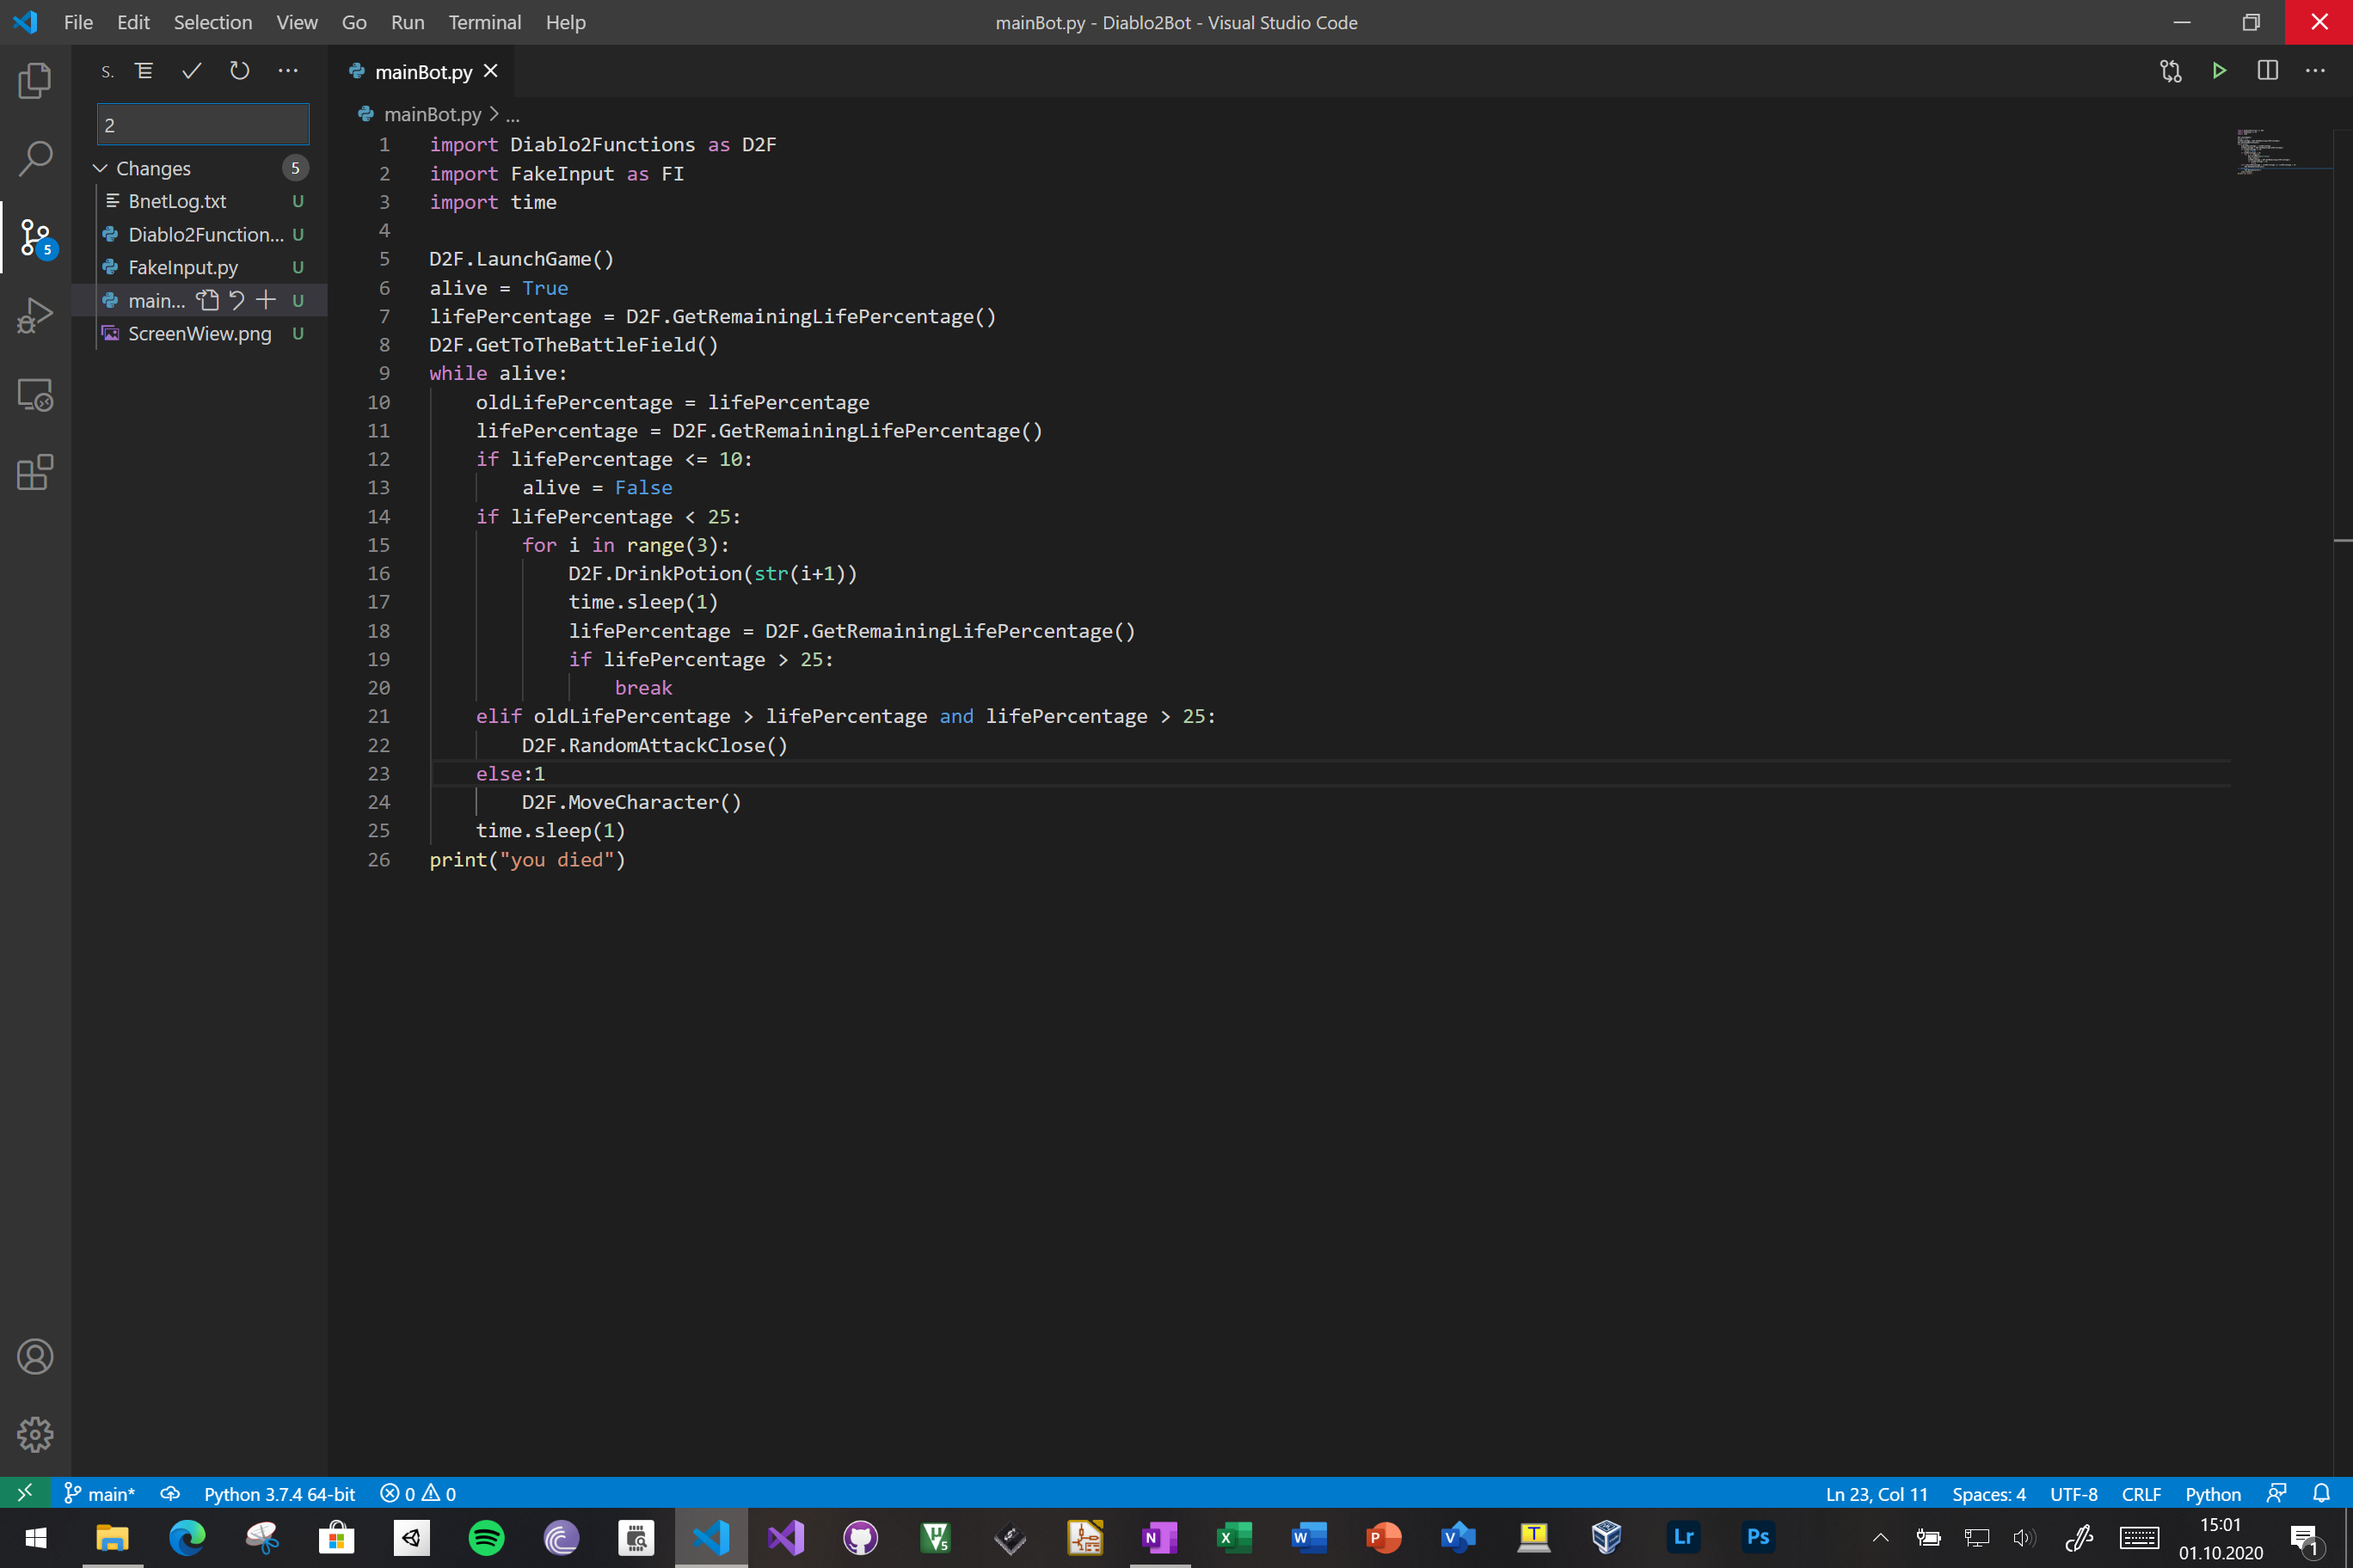
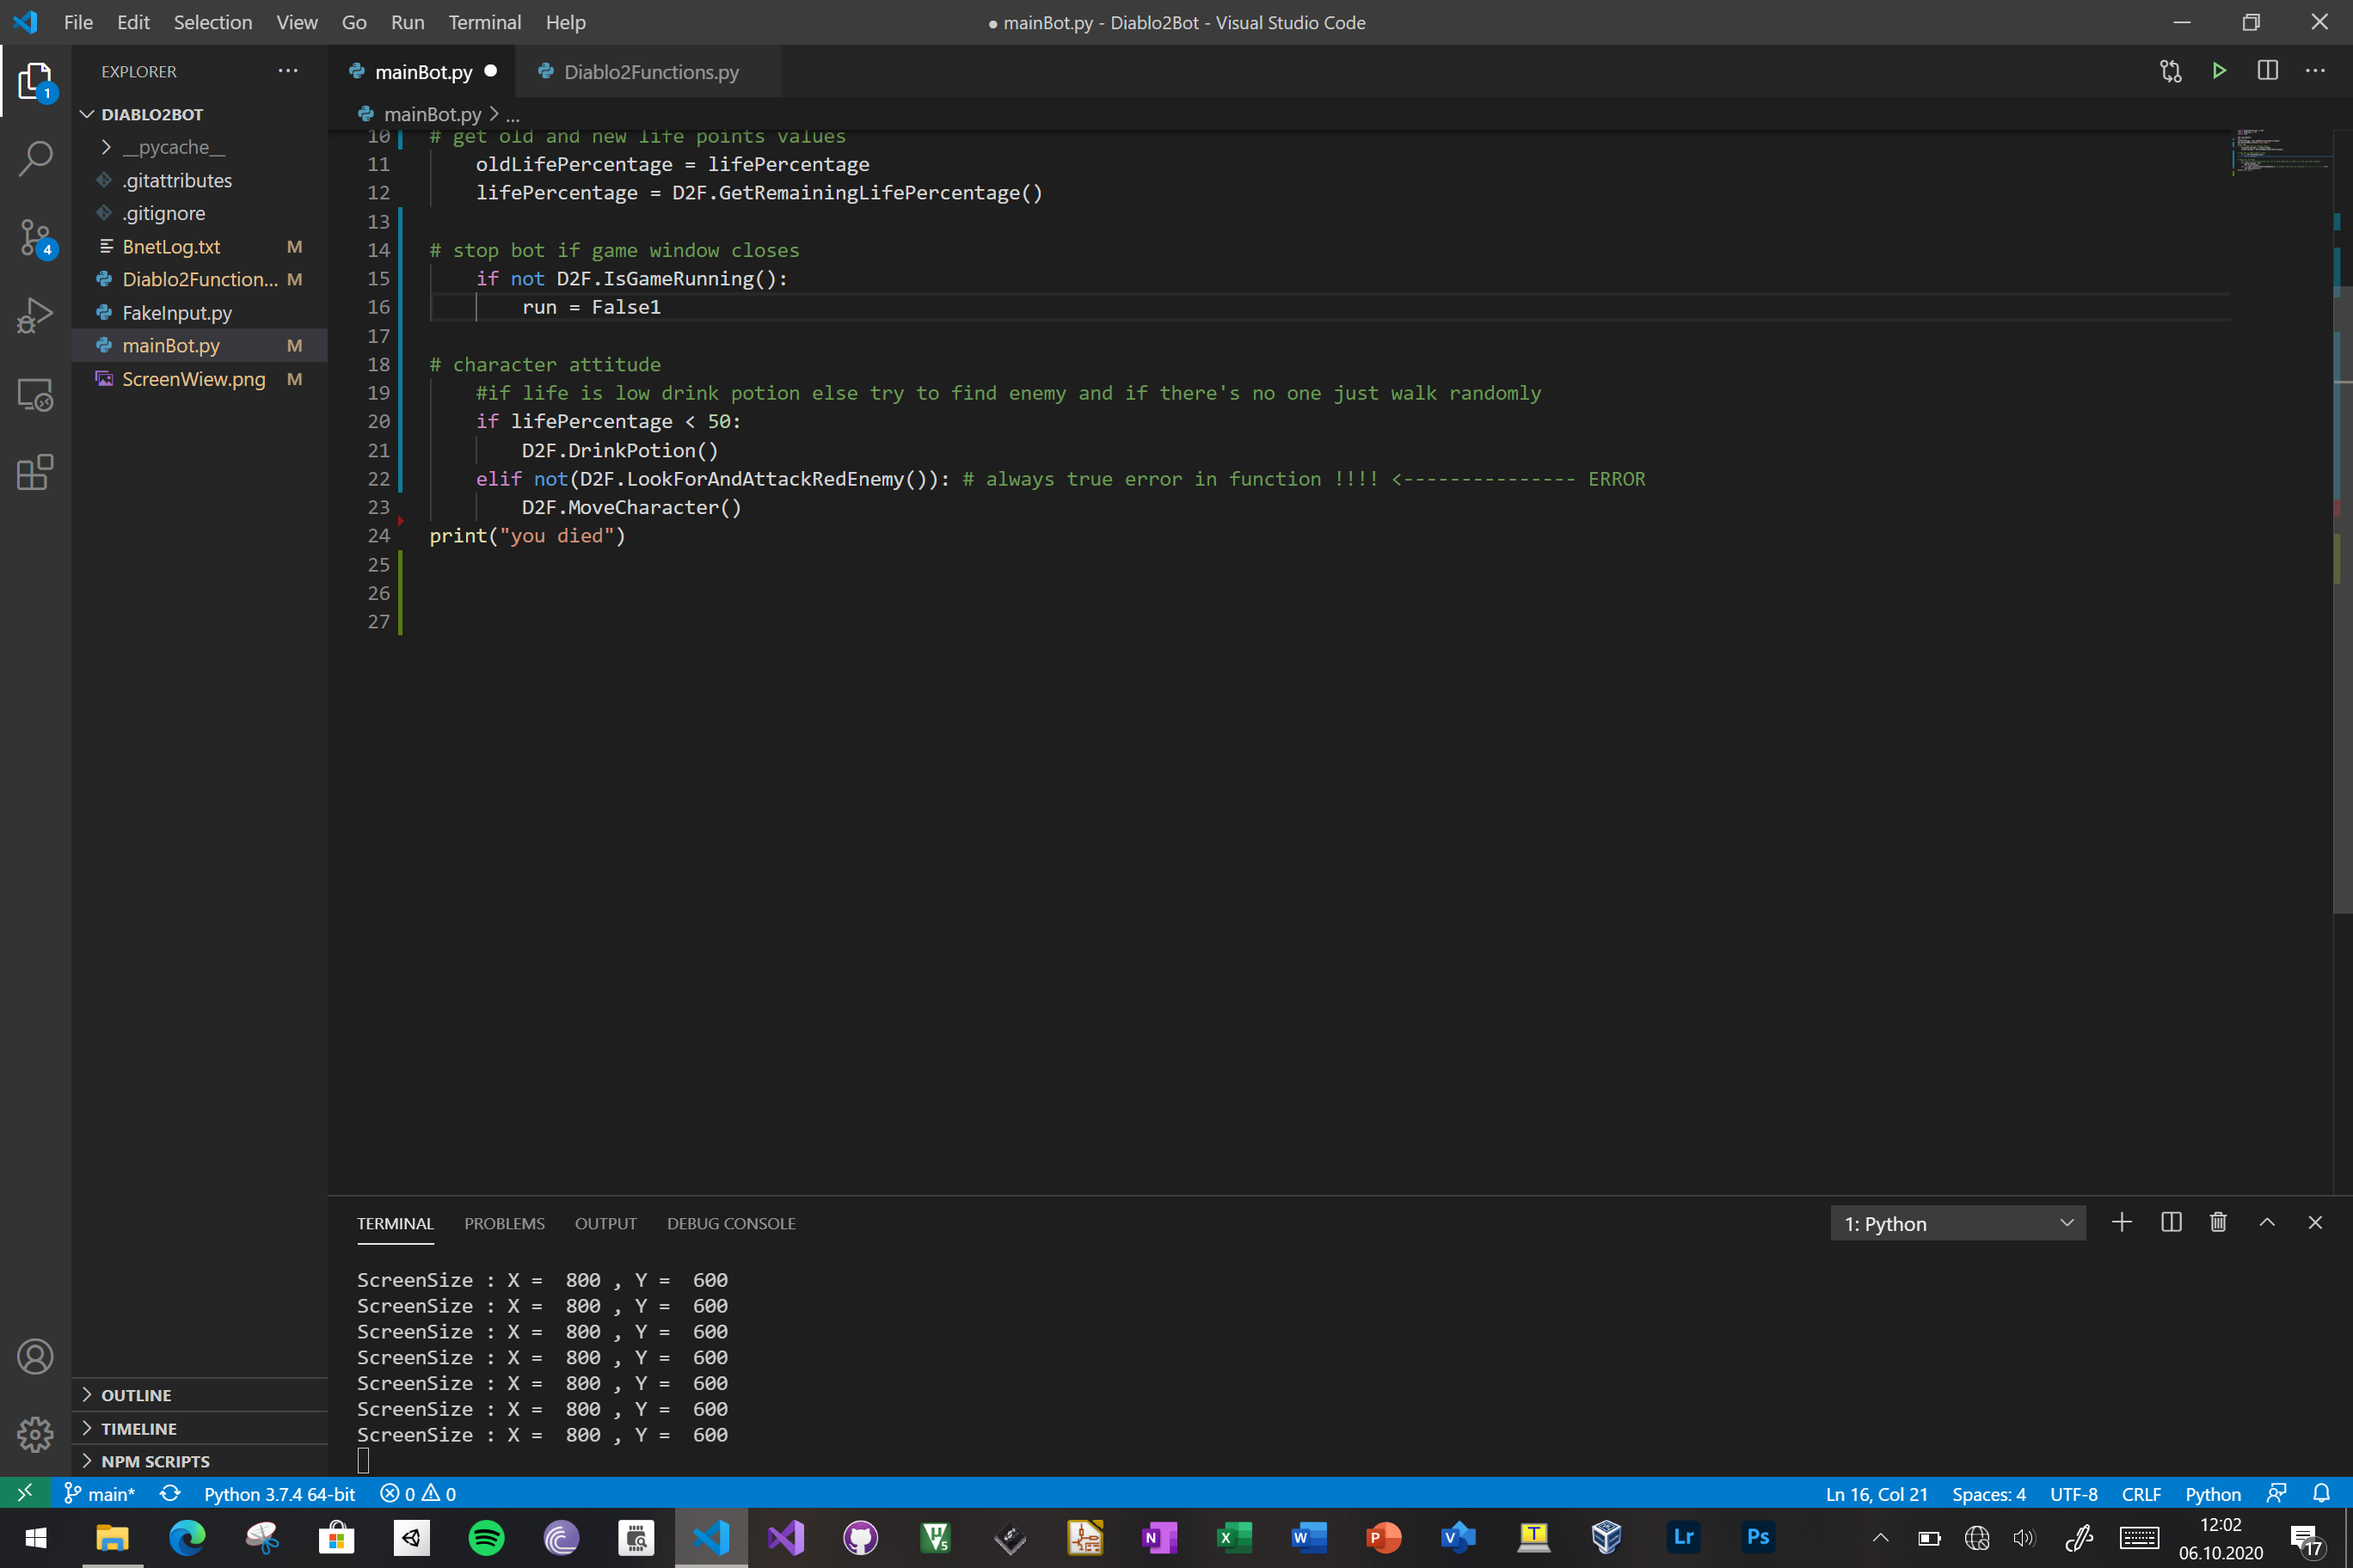
changed the dircetory placement (the main directory must be placed now in the game folder), working on "LookForAndAttackRedEnemy" because it always return true

diff --git a/Diablo2Functions.py b/Diablo2Functions.py
@@ -10,7 +10,7 @@ import random
 
 def LaunchGame():
     dirname = os.path.dirname(__file__)
-    filename = os.path.join(dirname, '../Game/DiabloII.exe')
+    filename = os.path.join(dirname, '../DiabloII.exe')
     os.system(filename)
     time.sleep(5)
     FI.KeyboardInput('enter')
@@ -28,7 +28,7 @@ def GetRemainingLifePercentage():
     remainingLifePercentage = 10
     mainPlayerLifePositionX = 70
     mainPlayerLifePositionY = 510
-    lifeRangeY = 578 - 510
+    lifeRangeY = 550 - 510
     screenView = Image.open(FI.GetScreenImage())
     pixels = screenView.load()
     for i in range(lifeRangeY):
@@ -49,7 +49,7 @@ def GetRemainingManaPercentage():
     remainingManaPercentage = 10
     mainPlayerManaPositionX = 730
     mainPlayerManaPositionY = 510
-    ManaRangeY = 578 - 510
+    ManaRangeY = 550 - 510
     screenView = Image.open(FI.GetScreenImage())
     pixels = screenView.load()
     for i in range(ManaRangeY):
@@ -68,61 +68,106 @@ def GetRemainingManaPercentage():
 
 def MoveCharacter(randomChoice = True,direction = ""):
     if randomChoice:
-        choice = random.randrange(1,4)
-        if choice == 2:
+        choice = random.randrange(0,100)
+
+        if choice <= 25:
             direction = "up"
-        if choice == 1:
+        elif choice <= 50:
             direction = "down"
-        if choice == 4:
+        elif choice <= 75:
             direction = "right"
-        if choice == 3:
+        elif choice <= 100:
             direction = "left"
     screenSize = FI.GetScreenSize()
     if direction == "up":
         FI.ClickXY(screenSize[0]//2,screenSize[1]//10,0)
+        time.sleep(1)
     if direction == "down":
         FI.ClickXY(screenSize[0]//2,screenSize[1]//10*9,0)
+        time.sleep(1)
     if direction == "left":
         FI.ClickXY(screenSize[0]//10,screenSize[1]//2,0)
+        time.sleep(1)
     if direction == "right":
         FI.ClickXY(screenSize[0]//10*9,screenSize[1]//2,0)
+        time.sleep(1)
 
 def RandomAttackClose():
     screenSize = FI.GetScreenSize()
     screenCenter = [screenSize[0]//2,screenSize[1]//2]
-    rangeTryAttackX = screenSize[0]//6
-    rangeTryAttackY = screenSize[1]//3
-    startingPointX = screenCenter[0]-(rangeTryAttackX//2)
-    startingPointY = screenCenter[1]-(rangeTryAttackY//2)
+    attackRange = screenSize[1]//10
+    FI.ClickXY(screenCenter[0]-attackRange,screenCenter[1]-attackRange,0)
+    time.sleep(0.25)
+    FI.ClickXY(screenCenter[0]+attackRange,screenCenter[1]-attackRange,0)
+    time.sleep(0.25)
+    FI.ClickXY(screenCenter[0]-attackRange,screenCenter[1]+attackRange,0)
+    time.sleep(0.25)
+    FI.ClickXY(screenCenter[0]+attackRange,screenCenter[1]+attackRange,0)
+    time.sleep(0.25)
 
-    for i in range(rangeTryAttackX//5):
-        for j in range(rangeTryAttackY//5):
-            FI.ClickXY(startingPointX+i*5,startingPointY+j*5,0)
-
-def DrinkPotion(option):
-    FI.KeyboardInput(option)
+def DrinkPotion():
+    for i in range(4):
+            if not(IsGameRunning()):
+                break
+            FI.KeyboardInput(str(i+1))
+            lifePercentage = GetRemainingLifePercentage()
+            if lifePercentage > 25:
+                break
     
-def GetToTheBattleField():
-    MoveCharacter(False,"down")
-    time.sleep(1)
-    MoveCharacter(False,"left")
-    time.sleep(1)
-    MoveCharacter(False,"down")
-    time.sleep(1)
-    MoveCharacter(False,"left")
-    time.sleep(1)
-    MoveCharacter(False,"down")
-    time.sleep(1)
-    MoveCharacter(False,"left")
-    time.sleep(1)
-    MoveCharacter(False,"down")
-    time.sleep(1)
-    MoveCharacter(False,"left")
-    time.sleep(1)
-    MoveCharacter(False,"down")
-    time.sleep(1)
-    MoveCharacter(False,"left")
-    time.sleep(1)
+def GetToTheBattleField(track):
+    if track == "down_left":
+        MoveCharacter(False,"down")
+        MoveCharacter(False,"left")
+        MoveCharacter(False,"down")
+        MoveCharacter(False,"left")
+        MoveCharacter(False,"down")
+        MoveCharacter(False,"left")
+        MoveCharacter(False,"left")
+        MoveCharacter(False,"down")
+        MoveCharacter(False,"left")
+    if track == "down_right":
+        MoveCharacter(False,"down")
+        MoveCharacter(False,"right")
+        MoveCharacter(False,"down")
+        MoveCharacter(False,"right")
+        MoveCharacter(False,"down")
+        MoveCharacter(False,"down")
+        MoveCharacter(False,"right")
+        MoveCharacter(False,"right")
+        MoveCharacter(False,"right")
+        MoveCharacter(False,"down")
+        MoveCharacter(False,"right")
+        MoveCharacter(False,"down")
+        MoveCharacter(False,"down")
 
-    
+def IsGameRunning():
+    screenView = Image.open(FI.GetScreenImage())
+    pixels = screenView.load()
+    pixelColor = pixels[6,567]
+    if pixelColor[0] == 74 and pixelColor[1] == 74 and pixelColor[2] == 74:
+        return True
+    else:
+        return False
+
+def LookForAndAttackRedEnemy():
+    enemyFound = False
+    enemyPosition = [0,0]
+    screenView = Image.open(FI.GetScreenImage())
+    screenSize = FI.GetScreenSize()
+    rangeHitAroundPlayer = 100
+    pixels = screenView.load()
+
+    rangeHitAroundPlayerStartingX = (screenSize[0]//2) - rangeHitAroundPlayer
+    rangeHitAroundPlayerStartingY = (screenSize[1]//2) - rangeHitAroundPlayer
+
+    for x in range(rangeHitAroundPlayer*2):
+        for y in range(rangeHitAroundPlayer*2):
+            pixel = pixels[rangeHitAroundPlayerStartingX + x,rangeHitAroundPlayerStartingY + y]
+            if  pixel[0] > 150 and pixel[1] < 50 and pixel[2] < 50:
+                enemyPosition = [rangeHitAroundPlayerStartingX + x,rangeHitAroundPlayerStartingY + y]
+                enemyFound = True
+                break
+    if enemyFound:
+        FI.ClickXY(enemyPosition[0],enemyPosition[1],0)
+    return enemyFound
     

diff --git a/main.py b/main.py
@@ -1,0 +1,26 @@
+import Diablo2Functions as D2F
+import FakeInput as FI
+import time
+
+D2F.LaunchGame()
+run = True
+lifePercentage = D2F.GetRemainingLifePercentage()
+D2F.GetToTheBattleField("down_right")
+while run:
+# get old and new life points values 
+    oldLifePercentage = lifePercentage
+    lifePercentage = D2F.GetRemainingLifePercentage()
+
+# stop bot if game window closes
+    if not D2F.IsGameRunning():
+        run = False
+    
+# character attitude
+    #if life is low drink potion else try to find enemy and if there's no one just walk randomly
+    if lifePercentage < 50:
+        D2F.DrinkPotion()
+    elif not D2F.LookForAndAttackRedEnemy(): # always true error in function !!!! <--------------- ERROR
+        D2F.MoveCharacter()
+print("you died")
+
+
